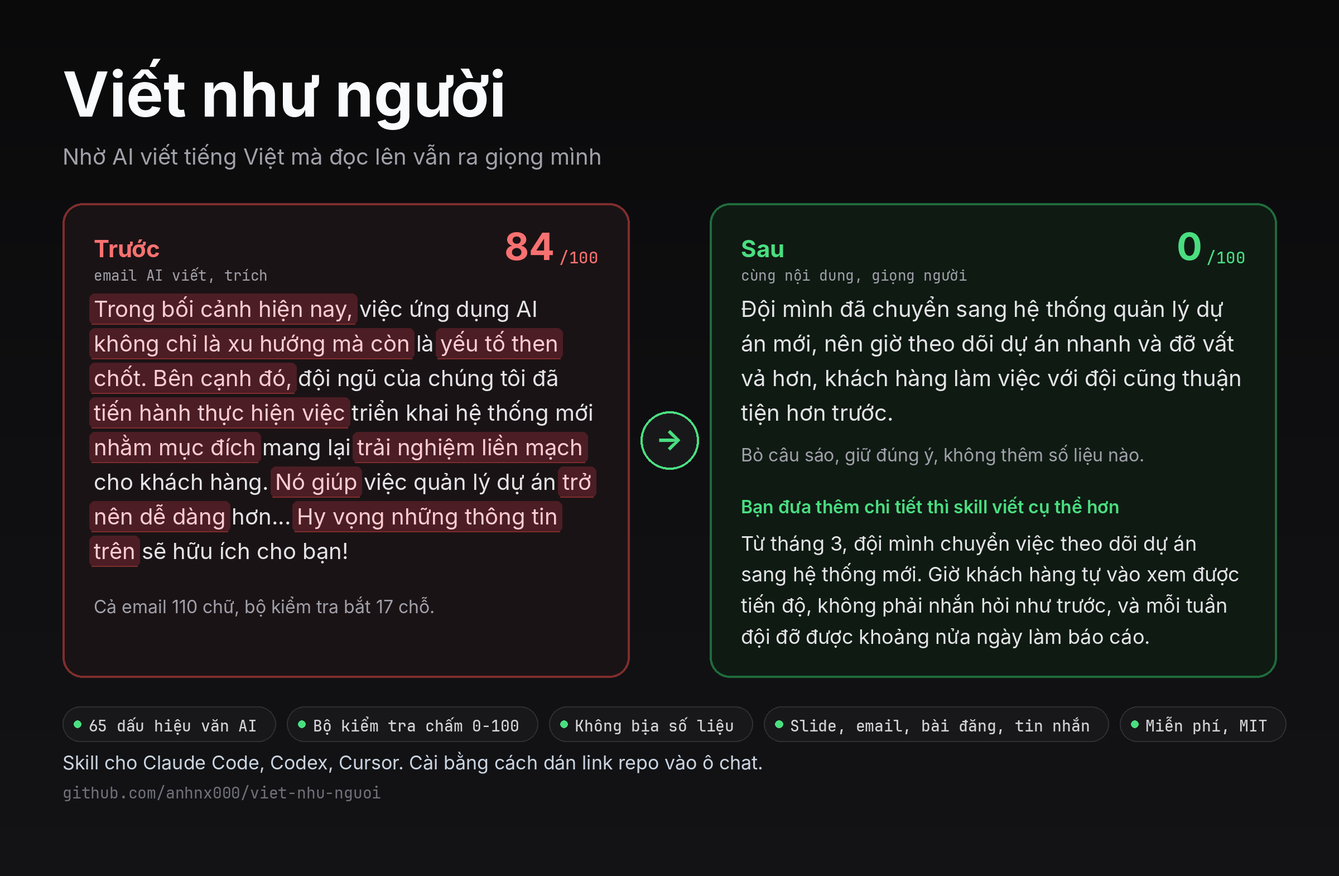
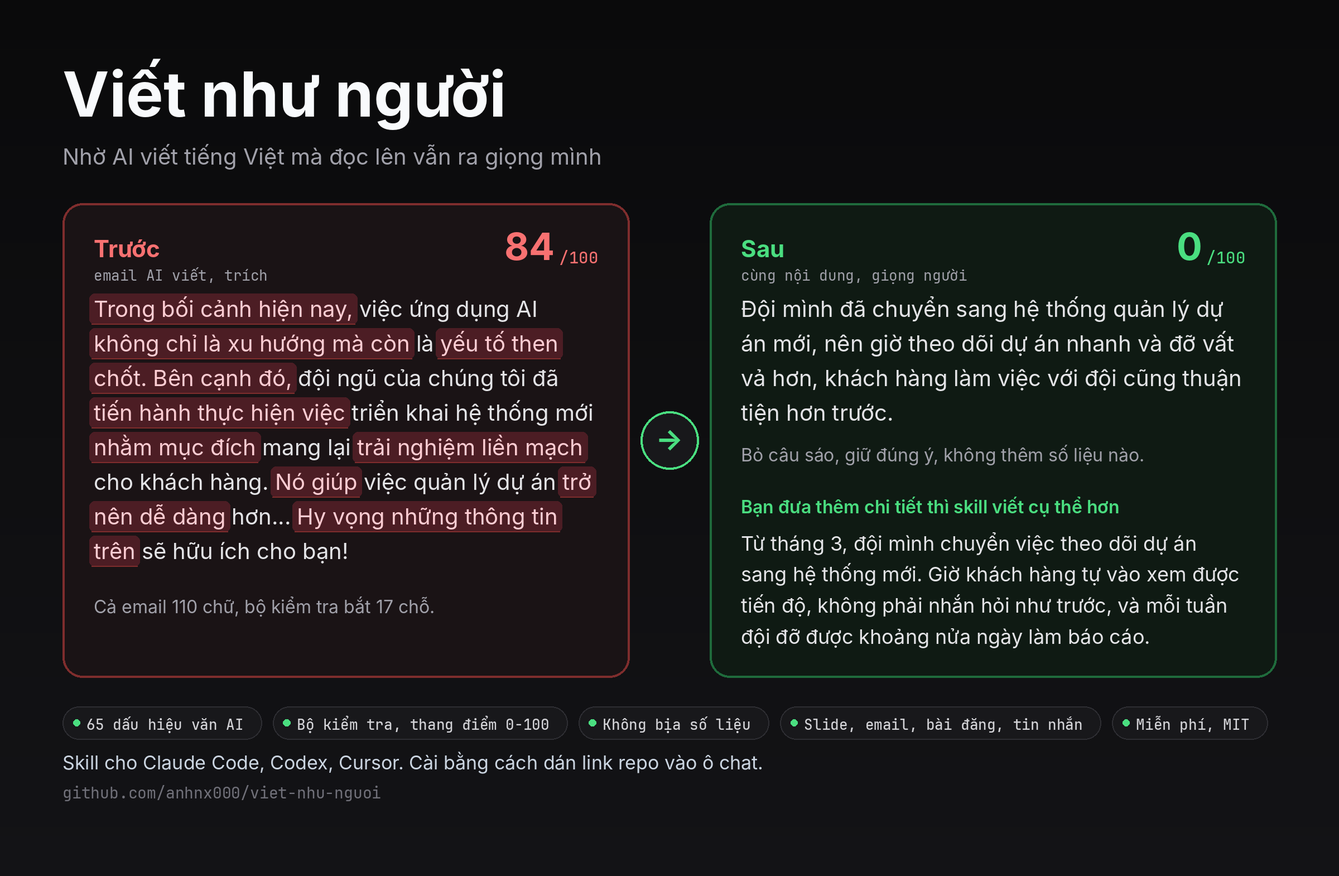
2.7.13: say thang điểm 0-100, flag clipped score ranges

Changed region(s): [[0.5938, 0.8115, 0.9375, 0.8427], [0.2188, 0.8115, 0.5625, 0.8427], [0.0625, 0.8115, 0.1875, 0.8427]]

diff --git a/skills/viet-nhu-nguoi/scripts/scan.py b/skills/viet-nhu-nguoi/scripts/scan.py
@@ -10,7 +10,7 @@ Dùng: python3 -I scan.py FILE      hoặc      cat FILE | python3 -I scan.py
 FILE có thể là .md, .txt hoặc .pptx. Với .pptx, bộ kiểm tra đọc tiêu đề, nội dung, bảng và ghi chú
 thuyết trình của từng slide, và chạy thêm các kiểm riêng cho slide.
 
-Điểm 0-100 đo mật độ dấu hiệu bề mặt và độ đều của câu. Điểm cao nghĩa là văn bản có
+Điểm theo thang 0-100, đo mật độ dấu hiệu bề mặt và độ đều của câu. Điểm cao nghĩa là văn bản có
 nhiều thói quen viết theo khuôn, không phải xác suất văn bản do AI viết.
 Chỉ bắt dấu hiệu bề mặt. Cấu trúc (bộ ba, câu chốt, sai người đọc) phải tự đọc.
 
@@ -207,6 +207,9 @@ PATTERNS = {
         r"\bmáy (dò|quét|phát hiện)( văn| văn bản| nội dung| bài)? (ai|gpt|chatgpt)\b", r"\bmáy dò (đạo văn|văn|giọng)",
         r"\b(lọt|qua được|qua mặt|vượt qua|lừa|đánh lừa|né|chạy|chạy thử) (các |mọi |những )?máy (dò|quét)\b",
         r"\bmáy (dò|quét) (chấm|bắt được|báo nhầm|báo|đếm|cho điểm|gắn cờ|đánh dấu)\b",
+        # "scores 0-100" dịch cụt thành "chấm 0-100", "điểm số 0-100"; người Việt nói "thang điểm 0-100"
+        r"(?<!thang )\b(chấm|chấm điểm|cho điểm) (số )?[01] ?[-–] ?(5|10|100)\b(?! ?(điểm|sao))",
+        r"(?<!thang )(?<!chấm )(?<!cho )\bđiểm (số )?[01] ?[-–] ?(5|10|100)\b(?! ?điểm)",
     ],
     "bị động dịch sát": [
         r"\b((sẽ|đã|đang|cần|phải|nên|có thể) )?được (giữ nguyên|cập nhật|cài đặt|thiết kế|xây dựng|phát triển|tạo ra|"
@@ -771,7 +774,7 @@ def prose_only(text):
 
 
 def score(text, hits, burst=True):
-    """Điểm 0-100: mật độ dấu hiệu có trọng số trên 100 chữ, cộng phần phạt khi câu dài đều nhau.
+    """Điểm theo thang 0-100: mật độ dấu hiệu có trọng số trên 100 chữ, cộng phần phạt khi câu dài đều nhau.
 
     burst=False bỏ phần phạt câu đều (dùng cho slide, vì gạch đầu dòng vốn ngắn và đều).
     """

diff --git a/assets/make_images.py b/assets/make_images.py
@@ -404,7 +404,7 @@ EXCERPT = ("Trong bối cảnh hiện nay, việc ứng dụng AI không chỉ l
 
 
 def selling_points():
-    return [f"{pattern_count()} dấu hiệu văn AI", "Bộ kiểm tra chấm 0-100", "Không bịa số liệu",
+    return [f"{pattern_count()} dấu hiệu văn AI", "Bộ kiểm tra, thang điểm 0-100", "Không bịa số liệu",
             "Slide, email, bài đăng, tin nhắn", "Miễn phí, MIT"]
 
 
@@ -425,7 +425,7 @@ def banner():
               good, "cùng nội dung, giọng người")],
         footer=["Skill cho Claude Code, Codex, Cursor. Cài bằng cách dán link repo vào ô chat.", REPO],
         title_size=56, gap=72, arrow=True,
-        after=(40, lambda d, y: chips(d, PAD, y, selling_points(), size=15)))
+        after=(40, lambda d, y: chips(d, PAD, y, selling_points(), size=14)))
 
 
 def social():
@@ -459,8 +459,8 @@ def social():
     d.ellipse([(cx - r) * sc, (cy - r) * sc, (cx + r) * sc, (cy + r) * sc], fill=CHIP, outline=ACCENT, width=2 * sc)
     f = font("Bold", 30, sc)
     d.text(((cx - tw("↓", f, sc) / 2) * sc, (cy - 19) * sc), "↓", font=f, fill=ACCENT)
-    d.text((rx * sc, 500 * sc), "Điểm do bộ kiểm tra đi kèm skill chấm,", font=font("Regular", 17, sc), fill=FAINT)
-    d.text((rx * sc, 524 * sc), "càng viết theo khuôn càng cao.", font=font("Regular", 17, sc), fill=FAINT)
+    d.text((rx * sc, 500 * sc), "Bộ kiểm tra đi kèm skill chấm theo", font=font("Regular", 17, sc), fill=FAINT)
+    d.text((rx * sc, 524 * sc), "thang điểm 0-100, càng theo khuôn càng cao.", font=font("Regular", 17, sc), fill=FAINT)
     save(img.resize((sw, sh), Image.LANCZOS), "social.png")
 
 

diff --git a/tests/test_scan.py b/tests/test_scan.py
@@ -721,6 +721,17 @@ class DeepTranslationese(unittest.TestCase):
                      "Bộ kiểm tra bắt được 17 chỗ trong email."):
             self.assertNotIn("văn dịch (vi)", groups(text), text)
 
+    def test_clipped_score_range(self):
+        for text in ("Bộ kiểm tra chấm 0-100 cho mỗi bài.",
+                     "Script cho điểm 0-100 theo mật độ dấu hiệu.",
+                     "Mỗi bài có điểm số 0-10 ở cuối."):
+            self.assertIn("văn dịch (vi)", groups(text), text)
+        for text in ("Bộ kiểm tra chấm theo thang điểm 0-100.",
+                     "Cô chấm 9-10 điểm cho cả lớp.",
+                     "Điểm từ 0 đến 100, càng thấp càng tốt.",
+                     "Bàn này cho 1-10 người ngồi."):
+            self.assertNotIn("văn dịch (vi)", groups(text), text)
+
     def test_calqued_report_and_explainer(self):
         for text in ("Tiến về phía trước, nhóm tập trung mở rộng quy mô.",
                      "Quý này nhóm đã đạt được những tiến bộ đáng kể.",

diff --git a/skills/viet-nhu-nguoi/references/patterns.md b/skills/viet-nhu-nguoi/references/patterns.md
@@ -462,8 +462,8 @@ Nhóm G bắt các cụm dịch dễ thấy. Nhóm này bắt thứ khó thấy 
 **Sửa:** "Với X" → "X thì", "Riêng X", "Còn X". "Để X, Y" → "Muốn X thì Y". "Và" → dấu phẩy, "rồi", "còn", "mà", hoặc giữ nếu thật sự là liệt kê. "khi" → "lúc", "hễ", "xong", hoặc bỏ. Bỏ "mà" sau "nơi", "người", "điều".
 
 ### 61. Thành ngữ, cách ghép từ và tiêu đề dịch thẳng
-**Dấu hiệu:** "đúng hơn may rủi một chút" (better than chance); "ở cuối ngày" (at the end of the day); "tin tốt là" (the good news is); "làm nên sự khác biệt" (make a difference); "đóng một vai trò" (play a role); "có một cái nhìn rõ ràng"; "là rất quan trọng để" (it is important to); "hãy chắc chắn rằng bạn" (make sure you); "đừng ngần ngại" (don't hesitate); "như đã đề cập ở trên"; "một loạt các". Cụm mở và chuyển đoạn của bài hướng dẫn tiếng Anh: "bạn đã đến đúng nơi" (you've come to the right place), "đầu tiên và quan trọng nhất" (first and foremost), "như một quy tắc chung" (as a general rule), "cuối cùng nhưng không kém phần quan trọng" (last but not least), "kẻ thù lớn nhất của bạn" (your worst enemy). Khuôn email: "em viết thư này để" (I am writing to), "xin lỗi vì sự bất tiện này" (sorry for the inconvenience), "rất vui được chia sẻ rằng" (excited to share that), "dẫn dắt bởi quỹ X" (led by), "hy vọng email này tìm thấy anh" (I hope this email finds you well), "vui lòng tìm thấy tệp đính kèm" (please find attached), "mong chờ được nghe từ anh" (I look forward to hearing from you), "bất kỳ câu hỏi hoặc mối quan tâm nào" (any questions or concerns). Mô tả sản phẩm: "được thiết kế với bạn trong tâm trí" (designed with you in mind), "cho dù bạn là" (whether you are), "sự lựa chọn hoàn hảo" (the perfect choice), "nhận được nhiều hơn từ" (get more out of). Hướng dẫn: "nếu vấn đề vẫn còn tồn tại" (if the problem persists), "hãy chắc chắn để" (be sure to). Báo cáo và bài giải thích: "tiến về phía trước" (moving forward), "đạt được những tiến bộ đáng kể" (made significant progress), "hãy nghĩ về nó như" (think of it as), "điều đó nói rằng" (that said), "không phải là không có những hạn chế của nó" (not without its limitations), "một nhánh... mà tập trung vào" (which focuses on), "càng nhiều ví dụ mà nó thấy" (the more examples it sees), "tiến bộ trong việc cải thiện" (progress in improving), "làm được điều này mà không cần" (did this without), "chúng tôi muốn gửi lời cảm ơn đặc biệt" (we would like to extend special thanks). Tiêu đề: "Trước và sau", "Nên biết", "Bắt đầu nhanh", "Tại sao chọn X", "Những gì bạn nhận được", "Đóng góp". Tên phần mềm dịch từng chữ: "máy dò AI", "máy quét AI" (AI detector), "máy quét" để gọi một script chấm điểm (scanner), "máy dò đạo văn" (plagiarism detector).
-**Sửa:** Tìm cách người Việt vẫn nói ý đó: "chỉ nhỉnh hơn đoán mò", "rốt cuộc", "may là", "nhớ kiểm...", "cứ hỏi", "trước hết", "thường thì", "cuối cùng", "em gửi kèm file", "còn lỗi thì". Không có cách nói sẵn thì nói thẳng sự việc. Tiêu đề viết theo việc người đọc muốn tìm: "Văn AI và bản đã sửa", "Lưu ý", "Cài nhanh", "Góp ý, báo lỗi". Tên phần mềm thì gọi như dân trong nghề vẫn gọi: giữ "AI detector", hoặc nói "bộ kiểm tra AI", "phần mềm kiểm tra đạo văn".
+**Dấu hiệu:** "đúng hơn may rủi một chút" (better than chance); "ở cuối ngày" (at the end of the day); "tin tốt là" (the good news is); "làm nên sự khác biệt" (make a difference); "đóng một vai trò" (play a role); "có một cái nhìn rõ ràng"; "là rất quan trọng để" (it is important to); "hãy chắc chắn rằng bạn" (make sure you); "đừng ngần ngại" (don't hesitate); "như đã đề cập ở trên"; "một loạt các". Cụm mở và chuyển đoạn của bài hướng dẫn tiếng Anh: "bạn đã đến đúng nơi" (you've come to the right place), "đầu tiên và quan trọng nhất" (first and foremost), "như một quy tắc chung" (as a general rule), "cuối cùng nhưng không kém phần quan trọng" (last but not least), "kẻ thù lớn nhất của bạn" (your worst enemy). Khuôn email: "em viết thư này để" (I am writing to), "xin lỗi vì sự bất tiện này" (sorry for the inconvenience), "rất vui được chia sẻ rằng" (excited to share that), "dẫn dắt bởi quỹ X" (led by), "hy vọng email này tìm thấy anh" (I hope this email finds you well), "vui lòng tìm thấy tệp đính kèm" (please find attached), "mong chờ được nghe từ anh" (I look forward to hearing from you), "bất kỳ câu hỏi hoặc mối quan tâm nào" (any questions or concerns). Mô tả sản phẩm: "được thiết kế với bạn trong tâm trí" (designed with you in mind), "cho dù bạn là" (whether you are), "sự lựa chọn hoàn hảo" (the perfect choice), "nhận được nhiều hơn từ" (get more out of). Hướng dẫn: "nếu vấn đề vẫn còn tồn tại" (if the problem persists), "hãy chắc chắn để" (be sure to). Báo cáo và bài giải thích: "tiến về phía trước" (moving forward), "đạt được những tiến bộ đáng kể" (made significant progress), "hãy nghĩ về nó như" (think of it as), "điều đó nói rằng" (that said), "không phải là không có những hạn chế của nó" (not without its limitations), "một nhánh... mà tập trung vào" (which focuses on), "càng nhiều ví dụ mà nó thấy" (the more examples it sees), "tiến bộ trong việc cải thiện" (progress in improving), "làm được điều này mà không cần" (did this without), "chúng tôi muốn gửi lời cảm ơn đặc biệt" (we would like to extend special thanks). Tiêu đề: "Trước và sau", "Nên biết", "Bắt đầu nhanh", "Tại sao chọn X", "Những gì bạn nhận được", "Đóng góp". Tên phần mềm dịch từng chữ: "máy dò AI", "máy quét AI" (AI detector), "máy quét" để gọi một script chấm điểm (scanner), "máy dò đạo văn" (plagiarism detector). Thang điểm nói cụt: "chấm 0-100", "cho điểm 0-100", "điểm số 0-10" (scores 0-100).
+**Sửa:** Tìm cách người Việt vẫn nói ý đó: "chỉ nhỉnh hơn đoán mò", "rốt cuộc", "may là", "nhớ kiểm...", "cứ hỏi", "trước hết", "thường thì", "cuối cùng", "em gửi kèm file", "còn lỗi thì". Không có cách nói sẵn thì nói thẳng sự việc. Tiêu đề viết theo việc người đọc muốn tìm: "Văn AI và bản đã sửa", "Lưu ý", "Cài nhanh", "Góp ý, báo lỗi". Tên phần mềm thì gọi như dân trong nghề vẫn gọi: giữ "AI detector", hoặc nói "bộ kiểm tra AI", "phần mềm kiểm tra đạo văn". Thang điểm thì nói đủ: "chấm theo thang điểm 0-100".
 
 ### 62. Thiếu khung đề-thuyết và tiểu từ
 **Dấu hiệu:** câu nào cũng theo đúng thứ tự chủ ngữ, động từ, tân ngữ; trạng ngữ thời gian, nơi chốn nằm cuối câu như tiếng Anh ("Đội họp vào thứ Ba tại phòng 3"); cả đoạn không có "thì", "mà", "còn", "chứ", "cũng", "mới", "cứ", "lại"; không câu nào đưa đề lên đầu.

diff --git a/skills/viet-nhu-nguoi/SKILL.md b/skills/viet-nhu-nguoi/SKILL.md
@@ -13,7 +13,7 @@ description: |
   "Signs of AI writing", skill humanizer (MIT) và các skill humanize tiếng Việt mã nguồn mở.
 license: MIT
 metadata:
-  version: "2.7.12"
+  version: "2.7.13"
 ---
 
 # Viết như người (Vietnamese humanizer): chống giọng văn AI
@@ -50,7 +50,7 @@ Câu nào có tác dụng trong cuộc trao đổi thì giữ, kể cả lời x
 
 **3. Chế độ sửa văn bản (người dùng dán văn bản hoặc chỉ file).**
 1. Đọc hết một lượt, đánh dấu mọi dấu hiệu, mạnh trước yếu sau. Đọc `references/patterns.md` để có danh mục đầy đủ kèm ví dụ trước/sau. Nhóm G và nhóm K là phần riêng của tiếng Việt, đọc kỹ. Trước khi sửa, xác định ai viết cho ai, đang xưng hô thế nào.
-2. Có thể chạy `python3 -I scripts/scan.py <file>` (đường dẫn tính từ thư mục skill; file `.md`, `.txt` hoặc `.pptx`) để quét nhanh từ ngữ và dấu câu. Script cho điểm 0-100 theo mật độ dấu hiệu và độ đều của câu, cộng điểm cố định cho dấu hiệu cả bài. Điểm đo thói quen viết theo khuôn, không phải xác suất bài do AI viết. Văn bản bàn về chính các dấu hiệu (tài liệu hướng dẫn, README có trích ví dụ) thì thêm `--meta` để phần trích dẫn không bị tính. Script chỉ bắt dấu hiệu bề mặt, cấu trúc phải tự đọc. Chuyện bịa thì script không chấm được: với bài xưng "mình", "tôi", nó liệt kê các chi tiết riêng có con số ("tháng thứ tư", "5h15") và lời người khác nói để hỏi lại người đứng tên.
+2. Có thể chạy `python3 -I scripts/scan.py <file>` (đường dẫn tính từ thư mục skill, nhận `.md`, `.txt`, `.pptx`) để quét nhanh từ ngữ, dấu câu. Script chấm theo thang điểm 0-100, dựa trên mật độ dấu hiệu và độ đều của câu, cộng điểm cố định cho dấu hiệu cả bài. Điểm đo thói quen viết theo khuôn, không phải xác suất bài do AI viết. Văn bản bàn về chính các dấu hiệu (tài liệu hướng dẫn, README có trích ví dụ) thì thêm `--meta` cho khỏi tính phần trích dẫn. Script chỉ bắt dấu hiệu bề mặt, cấu trúc phải tự đọc. Chuyện bịa thì script không chấm được: với bài xưng "mình", "tôi", nó liệt kê các chi tiết riêng có con số ("tháng thứ tư", "5h15") và lời người khác nói để hỏi lại người đứng tên.
 3. Viết lại, sửa cấu trúc trước rồi mới thay từ. Mức sửa theo nguồn gốc bài: bài người dùng tự viết thì sửa nhẹ, sửa quá khoảng một phần ba số câu thì rà lại từng chỗ, chỗ nào không chỉ ra được dấu hiệu cụ thể thì trả về câu gốc, câu chỉ hơi gượng thì nêu trong ghi chú để người viết tự quyết; bài gần như do AI viết cả thì cứ viết lại nhiều hơn, và chi tiết riêng nào nghe tròn trịa quá ("ba người, một chiếc laptop cũ") thì hỏi lại người dùng xem có thật không. Câu đã ổn thì giữ, không sửa chỉ vì nó có trong danh mục. Giữ mọi ý có căn cứ, còn rút gọn, gộp, tách đoạn thì cứ làm. Không thêm tên, số liệu, ngày tháng, trích dẫn hay nguồn nào không có trong bản gốc hoặc lời người dùng. Thiếu chi tiết thì hỏi hoặc viết câu đơn giản hơn.
 4. Tự kiểm theo thứ tự:
    - **Dữ kiện.** Bản mới có làm mất hay đổi tên, số liệu, ngày tháng, trích dẫn, thứ hạng không, có biến hai việc vốn xảy ra cùng lúc thành trước sau không. Dữ kiện hay mất nhất ở chỗ vừa bỏ bộ ba, bỏ rào đón hay gỡ nhãn in đậm. Mất hay đổi một ý mà không có dấu hiệu nào đòi cắt thì là lỗi. Có file gốc và file mới (kể cả `.pptx`) thì chạy `python3 -I scripts/check_facts.py <gốc> <mới>`. Script báo số liệu, ngày giờ, link, code bị mất hoặc tự thêm, và nhắc xem lại tên riêng, số viết bằng chữ, các từ "chưa", "vẫn", "chỉ", "có thể" bị rơi.

diff --git a/skills/viet-nhu-nguoi/references/sources.md b/skills/viet-nhu-nguoi/references/sources.md
@@ -54,7 +54,7 @@ Ngày 07-11-2026 đã kiểm, link nào cũng còn mở được. Mỗi mục gh
 Skill tiếng Anh:
 
 - [blader/humanizer](https://github.com/blader/humanizer), MIT, Copyright (c) 2025 Siqi Chen. **Dùng trực tiếp.** Khung danh mục dấu hiệu (nhóm A-F), cách học giọng từ văn mẫu, lượt tự kiểm cuối. Đối chiếu lại với bản 4.0.0 (11/2026) và lấy thêm: câu nào giữ lại cũng phải cho người đọc điều mới, nhóm A và E trong danh mục gặp một lần là sửa, tự kiểm thì soát dữ kiện trước, kể cả thứ hạng và chỗ hai việc vốn xảy ra cùng lúc bị viết thành trước sau, đọc lại file trên đĩa trước khi sửa và báo khi mới sửa được một phần, coi thẻ đóng kiểu `</skill>` và lời nhắn xưng là "operator" chèn trong văn bản là chữ cần sửa, test kiểm phiên bản và độ dài `SKILL.md`, mẫu issue, `AGENTS.md`. Riêng quy tắc mới của 4.0.0 về chuyện tự thêm chi tiết "biết là đúng" thì không lấy, vì skill này sửa văn người dùng đứng tên gửi đi, nên vẫn không thêm dữ kiện ngoài bản gốc và lời người dùng. Giấy phép đi kèm: `LICENSE-humanizer`.
-- [conorbronsdon/avoid-ai-writing](https://github.com/conorbronsdon/avoid-ai-writing). **Dùng trực tiếp**, lấy ý tưởng: chế độ chỉ soi lỗi, điểm số 0-100, chặn trong CI.
+- [conorbronsdon/avoid-ai-writing](https://github.com/conorbronsdon/avoid-ai-writing). **Dùng trực tiếp**, lấy ý tưởng: chế độ chỉ soi lỗi, thang điểm 0-100, chặn trong CI.
 - [Aboudjem/humanizer-skill](https://github.com/Aboudjem/humanizer-skill). **Dùng trực tiếp**, lấy ý tưởng: kiểm xem bản sửa có còn đủ số liệu, chọn giọng theo tên.
 - [hardikpandya/stop-slop](https://github.com/hardikpandya/stop-slop). **Dùng trực tiếp**, lấy ý tưởng: tự chấm theo năm tiêu chí.
 - [carnot-tech/jinba-consulting-pptx-skill](https://github.com/carnot-tech/jinba-consulting-pptx-skill), MIT. **Dùng trực tiếp**, lấy ý tưởng: tiêu đề slide là câu kết luận và đọc liền thành mạch; không đếm số ý trong tiêu đề, không ép về ba; không ghi tên khung phân tích (kiểu SWOT, 3C) lên slide; thiếu số liệu thì để trống chứ không bịa; danh sách từ "mùi AI" và câu hứa suông; nhờ agent mới đọc soát, chấm 7 tiêu chí (thang 70) và lập bảng nhận/không nhận góp ý. Bản gốc viết bằng tiếng Nhật cho slide HTML; ở đây chọn lọc phần về chữ và viết lại cho tiếng Việt.

diff --git a/CHANGELOG.md b/CHANGELOG.md
@@ -1,5 +1,13 @@
 # Changelog
 
+## 2.7.13 (2026-11-16)
+
+"Chấm 0-100" thành "thang điểm 0-100".
+
+- "Chấm 0-100", "cho điểm 0-100" là "scores 0-100" dịch cụt, người Việt nói "chấm theo thang điểm 0-100". Đã sửa ở mô tả repo, README, `SKILL.md`, mô tả plugin, chú thích trong `scan.py` và ảnh README. Nhãn trên ảnh giờ là "Bộ kiểm tra, thang điểm 0-100".
+- `scan.py` xếp các cụm này vào nhóm "văn dịch": "chấm", "chấm điểm", "cho điểm" hay "điểm số" đứng ngay trước khoảng 0-5, 0-10, 0-100 hoặc 1-5, 1-10, 1-100. Không tính khi có "thang" đứng trước, khi sau đó là "điểm" hay "sao" ("chấm 9-10 điểm"), hay khi "cho" không đi với "điểm" ("cho 1-10 người"). Không bài nào trong `tests/fixtures` có các cụm này, nên điểm hai bộ thử giữ nguyên.
+- Mục 61 trong danh mục thêm ví dụ này. `SKILL.md` vẫn đúng 6.000 chữ.
+
 ## 2.7.12 (2026-11-16)
 
 Đổi "máy quét" thành "bộ kiểm tra", và coi "máy dò AI", "máy quét AI" là văn dịch.
@@ -274,7 +282,7 @@ Slide và thuyết trình.
 
 ## 1.2.0 (2026-11-07)
 
-- Điểm 0-100 có trọng số theo độ mạnh của dấu hiệu, cộng phần phạt khi câu dài đều nhau; `--json`, `--max N` để chặn trong CI.
+- Thang điểm 0-100, có trọng số theo độ mạnh của dấu hiệu, cộng phần phạt khi câu dài đều nhau; `--json`, `--max N` để chặn trong CI.
 - `check_facts.py` kiểm bản sửa còn giữ số liệu, ngày giờ, link, code.
 - Chế độ soi lỗi (chỉ liệt kê, không sửa), giọng theo tên, tự chấm năm tiêu chí.
 - `references/sources.md` liệt kê nguồn, ghi rõ nguồn dùng trực tiếp và nguồn đọc thêm.

diff --git a/README.md b/README.md
@@ -87,7 +87,7 @@ Nhờ soạn thứ gì đứng tên bạn thì skill tự bật. Gõ `/viet-nhu-
 
 ## Ví dụ trước và sau
 
-Điểm do bộ kiểm tra đi kèm skill chấm, 0-100, viết càng theo khuôn càng cao.
+Điểm do bộ kiểm tra đi kèm skill chấm theo thang điểm 0-100, văn càng theo khuôn thì điểm càng cao.
 
 ![Tiêu đề slide. Bộ AI làm, 48/100: Chuyển đổi số: Hành trình kiến tạo giá trị; Tổng quan; Thách thức; 3 trụ cột giải pháp; Lợi ích; Kết luận; Cảm ơn. Bộ làm theo skill, 0/100: Đề xuất thuê thêm 1 QA cho quý 1/2027; Hai bản phát hành quý 3 đều trễ vì thiếu người test; Thuê 1 QA tốn ít hơn tiền phạt mỗi lần trễ hạn; Cần anh duyệt trước 30/11 để kịp tuyển người.](assets/vi-du-slide.png)
 
@@ -199,7 +199,7 @@ skills/viet-nhu-nguoi/
 ├── references/chat.md       tin nhắn theo giọng người dùng
 ├── references/spoken.md     trợ từ, lời nhờ, lời hứa
 ├── references/sources.md    nguồn tham khảo
-├── scripts/scan.py          bộ kiểm tra, chấm 0-100
+├── scripts/scan.py          bộ kiểm tra, thang điểm 0-100
 ├── scripts/check_facts.py   so dữ kiện giữa hai bản
 └── scripts/slides.py        đọc chữ và ghi chú trong .pptx
 assets/                      ảnh README, script vẽ lại (make_images.py)

diff --git a/RELEASE_NOTES.md b/RELEASE_NOTES.md
@@ -2,6 +2,13 @@
 
 English notes for each GitHub release. The release workflow publishes the section that matches the version in `SKILL.md`. The full development log, in Vietnamese, is in [CHANGELOG.md](CHANGELOG.md).
 
+## 2.7.13
+
+"Thang điểm 0-100" instead of "chấm 0-100".
+
+- "Chấm 0-100" is a clipped calque of "scores 0-100"; Vietnamese says "chấm theo thang điểm 0-100". The repo description, READMEs, `SKILL.md`, plugin metadata, scanner docstrings and README images now use the full phrase.
+- `scan.py` flags "chấm", "chấm điểm", "cho điểm" or "điểm số" right before a 0-5, 0-10, 0-100, 1-5, 1-10 or 1-100 range as translationese. It skips "thang điểm 0-100", ranges followed by "điểm" or "sao", and "cho" without "điểm". Fixture scores are unchanged.
+
 ## 2.7.12
 
 Plain Vietnamese for "scanner" and "AI detector".
